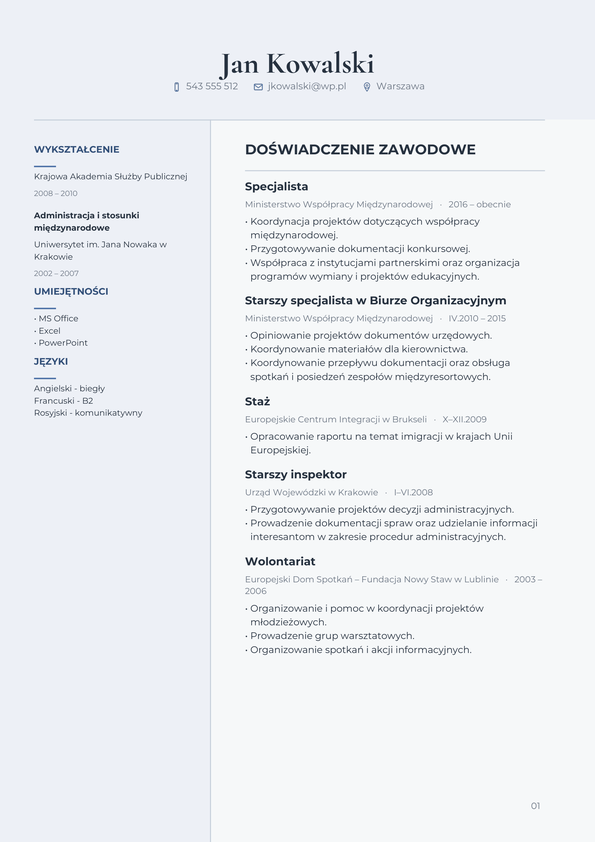
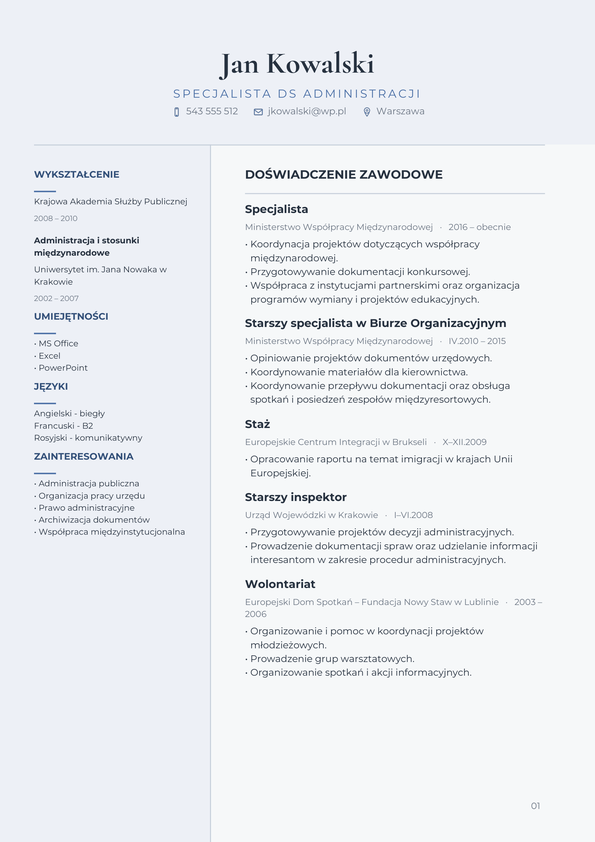
sterling-po

Changed region(s): [[0.2723, 0.0926, 0.9076, 0.8029], [0.0605, 0.1544, 0.3025, 0.6485], [0.8773, 0.6793, 0.9076, 0.7411]]

diff --git a/scripts/render_sterling_showcase.py b/scripts/render_sterling_showcase.py
@@ -24,6 +24,7 @@ import regenerate_template_starters as R  # noqa: E402
 
 CV = {
     "name": "Jan Kowalski",
+    "title": "Specjalista ds administracji",
     "email": "jkowalski@wp.pl",
     "phone": "543 555 512",
     "location": "Warszawa",
@@ -93,6 +94,20 @@ CV = {
         {"name": "Angielski", "level": "biegły"},
         {"name": "Francuski", "level": "B2"},
         {"name": "Rosyjski", "level": "komunikatywny"},
+    ],
+    "extra_sections": [
+        {
+            "title": "Zainteresowania",
+            "kind": "interests",
+            "placement": "after_skills",
+            "items": [
+                "Administracja publiczna",
+                "Organizacja pracy urzędu",
+                "Prawo administracyjne",
+                "Archiwizacja dokumentów",
+                "Współpraca międzyinstytucjonalna",
+            ],
+        },
     ],
 }
 

diff --git a/README.md b/README.md
@@ -594,7 +594,7 @@ Implementation (Topbar / landing entry points):
 
 - `frontend/src/pages/Hero/Hero.jsx`, function `buildStartUrl` and component `CtaLink` — only `start=import` conditionally returns a `/register` URL; every other intent uses `getEditorPath({ start })`; `CtaLink` renders the primary / secondary / text-link chrome and queues the per-source funnel event on click; before/after `afterMock` is `{ name: "Sterling", image: "/template-mockups/sterling-showcase.png" }`, a dedicated same-content render, not `previewById(...)`; the "before" card is a real `<img src="/images/bad_cv.png">` (a dated Word-style CV screenshot), not an abstract CSS-bar wireframe; templates section renders a duplicated `TEMPLATE_PREVIEWS` marquee (all mockups) under `#szablony`
 - `frontend/src/pages/Hero/Hero.module.css` — quiet-luxury white/ivory + `#171717` + gold `#B8954A` system with hard gold offset shadows; real-mockup compositions (`.heroStack` / `.templateMarquee` + `@keyframes templateMarquee` / `.editorMock` + floating `.aiCard`s / `.finalStack`) and the compact `.trustStrip`; `.oldDocument` sizes/crops the real `bad_cv.png` screenshot identically to `.afterCard img` (`object-fit: cover`, `object-position: top`, same `min-height`, same border) so neither card looks disproportionate next to the other
-- `scripts/render_sterling_showcase.py` — generates `frontend/public/template-mockups/sterling-showcase.png` from the Jan Kowalski CV data (kept in sync with the real content visible in `frontend/public/images/bad_cv.png`) via `generate_resume("sterling", cv)` and the same ReportLab/PyMuPDF pipeline as `scripts/render_iconic_mockups.py`; re-run manually if the Jan Kowalski content or Sterling's layout ever changes
+- `scripts/render_sterling_showcase.py` — generates `frontend/public/template-mockups/sterling-showcase.png` from the Jan Kowalski CV data (kept in sync with the real content visible in `frontend/public/images/bad_cv.png`) via `generate_resume("sterling", cv)` and the same ReportLab/PyMuPDF pipeline as `scripts/render_iconic_mockups.py`; the showcase includes the title “Specjalista ds administracji” and five administration-focused interests in the sidebar; re-run manually if the Jan Kowalski content or Sterling's layout ever changes
 - `frontend/src/utils/authSession.js`, function `getEditorPath` — builds `/cvstudio/guest` or `/cvstudio/{username}` (plus optional `?start=`)
 - `frontend/src/pages/Register/Register.jsx` / `Login/Login.jsx` — preserve `templates|import|wizard|blank` through the auth round trip; login stores `username` and navigates via `getEditorPath`
 - `frontend/src/pages/PdfCanvas.jsx`, lines 89–106 (workspace slug sync), `initialStartIntentRef` (includes `demo`), auto-open templates picker skips every directed intent, including `demo`, demo path loads `regentTemplate` with `templateId: "regent"` and sets `isDemoContent` — intent handling + mode hydration from saved PDFs
@@ -2441,7 +2441,7 @@ Implementacja:
 
 - `frontend/src/pages/Hero/Hero.jsx`, funkcja `buildStartUrl` i komponent `CtaLink` — tylko `start=import` warunkowo zwraca URL `/register`; każda inna intencja używa `getEditorPath({ start })`; `CtaLink` renderuje wariant primary / secondary / link i kolejkuje zdarzenie lejka z danym źródłem; karta przed/po `afterMock` to `{ name: "Sterling", image: "/template-mockups/sterling-showcase.png" }` — dedykowany render tej samej treści, a nie `previewById(...)`; karta „przed” to prawdziwy `<img src="/images/bad_cv.png">` (zrzut ekranu przestarzałego CV w stylu Worda), a nie abstrakcyjny szkielet CSS; sekcja szablonów to zduplikowany marquee `TEMPLATE_PREVIEWS` (wszystkie mockupy) pod `#szablony`
 - `frontend/src/pages/Hero/Hero.module.css` — system quiet-luxury biel/kość słoniowa + `#171717` + złoto `#B8954A` z twardymi złotymi cieniami offset; kompozycje z realnych mockupów (`.heroStack` / `.templateMarquee` + `@keyframes templateMarquee` / `.editorMock` + pływające `.aiCard` / `.finalStack`) i zwarty `.trustStrip`; `.oldDocument` skaluje/kadruje prawdziwy zrzut `bad_cv.png` dokładnie tak samo jak `.afterCard img` (`object-fit: cover`, `object-position: top`, ta sama `min-height`, ta sama ramka), więc żadna z kart nie wygląda nieproporcjonalnie obok drugiej
-- `scripts/render_sterling_showcase.py` — generuje `frontend/public/template-mockups/sterling-showcase.png` z danych CV Jana Kowalskiego (zsynchronizowanych z rzeczywistą treścią widoczną w `frontend/public/images/bad_cv.png`) przez `generate_resume("sterling", cv)` i ten sam potok ReportLab/PyMuPDF co `scripts/render_iconic_mockups.py`; uruchom ponownie ręcznie, jeśli treść Jana Kowalskiego albo układ Sterlinga kiedykolwiek się zmienią
+- `scripts/render_sterling_showcase.py` — generuje `frontend/public/template-mockups/sterling-showcase.png` z danych CV Jana Kowalskiego (zsynchronizowanych z rzeczywistą treścią widoczną w `frontend/public/images/bad_cv.png`) przez `generate_resume("sterling", cv)` i ten sam potok ReportLab/PyMuPDF co `scripts/render_iconic_mockups.py`; showcase zawiera stanowisko „Specjalista ds administracji” oraz pięć zainteresowań związanych z administracją w sidebarze; uruchom ponownie ręcznie, jeśli treść Jana Kowalskiego albo układ Sterlinga kiedykolwiek się zmienią
 - `frontend/src/utils/authSession.js`, funkcja `getEditorPath` — buduje `/cvstudio/guest` albo `/cvstudio/{username}` (plus opcjonalne `?start=`)
 - `frontend/src/pages/Register/Register.jsx` / `Login/Login.jsx` — zachowują `templates|import|wizard|blank` przez cały przepływ logowania; login zapisuje `username` i nawiguje przez `getEditorPath`
 - `frontend/src/pages/PdfCanvas.jsx`, linie 89–106 (synchronizacja sluga workspace), `initialStartIntentRef` (obejmuje `demo`), auto-otwarcie modala szablonów pomija każdą skierowaną intencję, w tym `demo`, ścieżka demo wczytuje `regentTemplate` i ustawia `isDemoContent` — obsługa intencji i hydratacja trybu z zapisanych PDF
